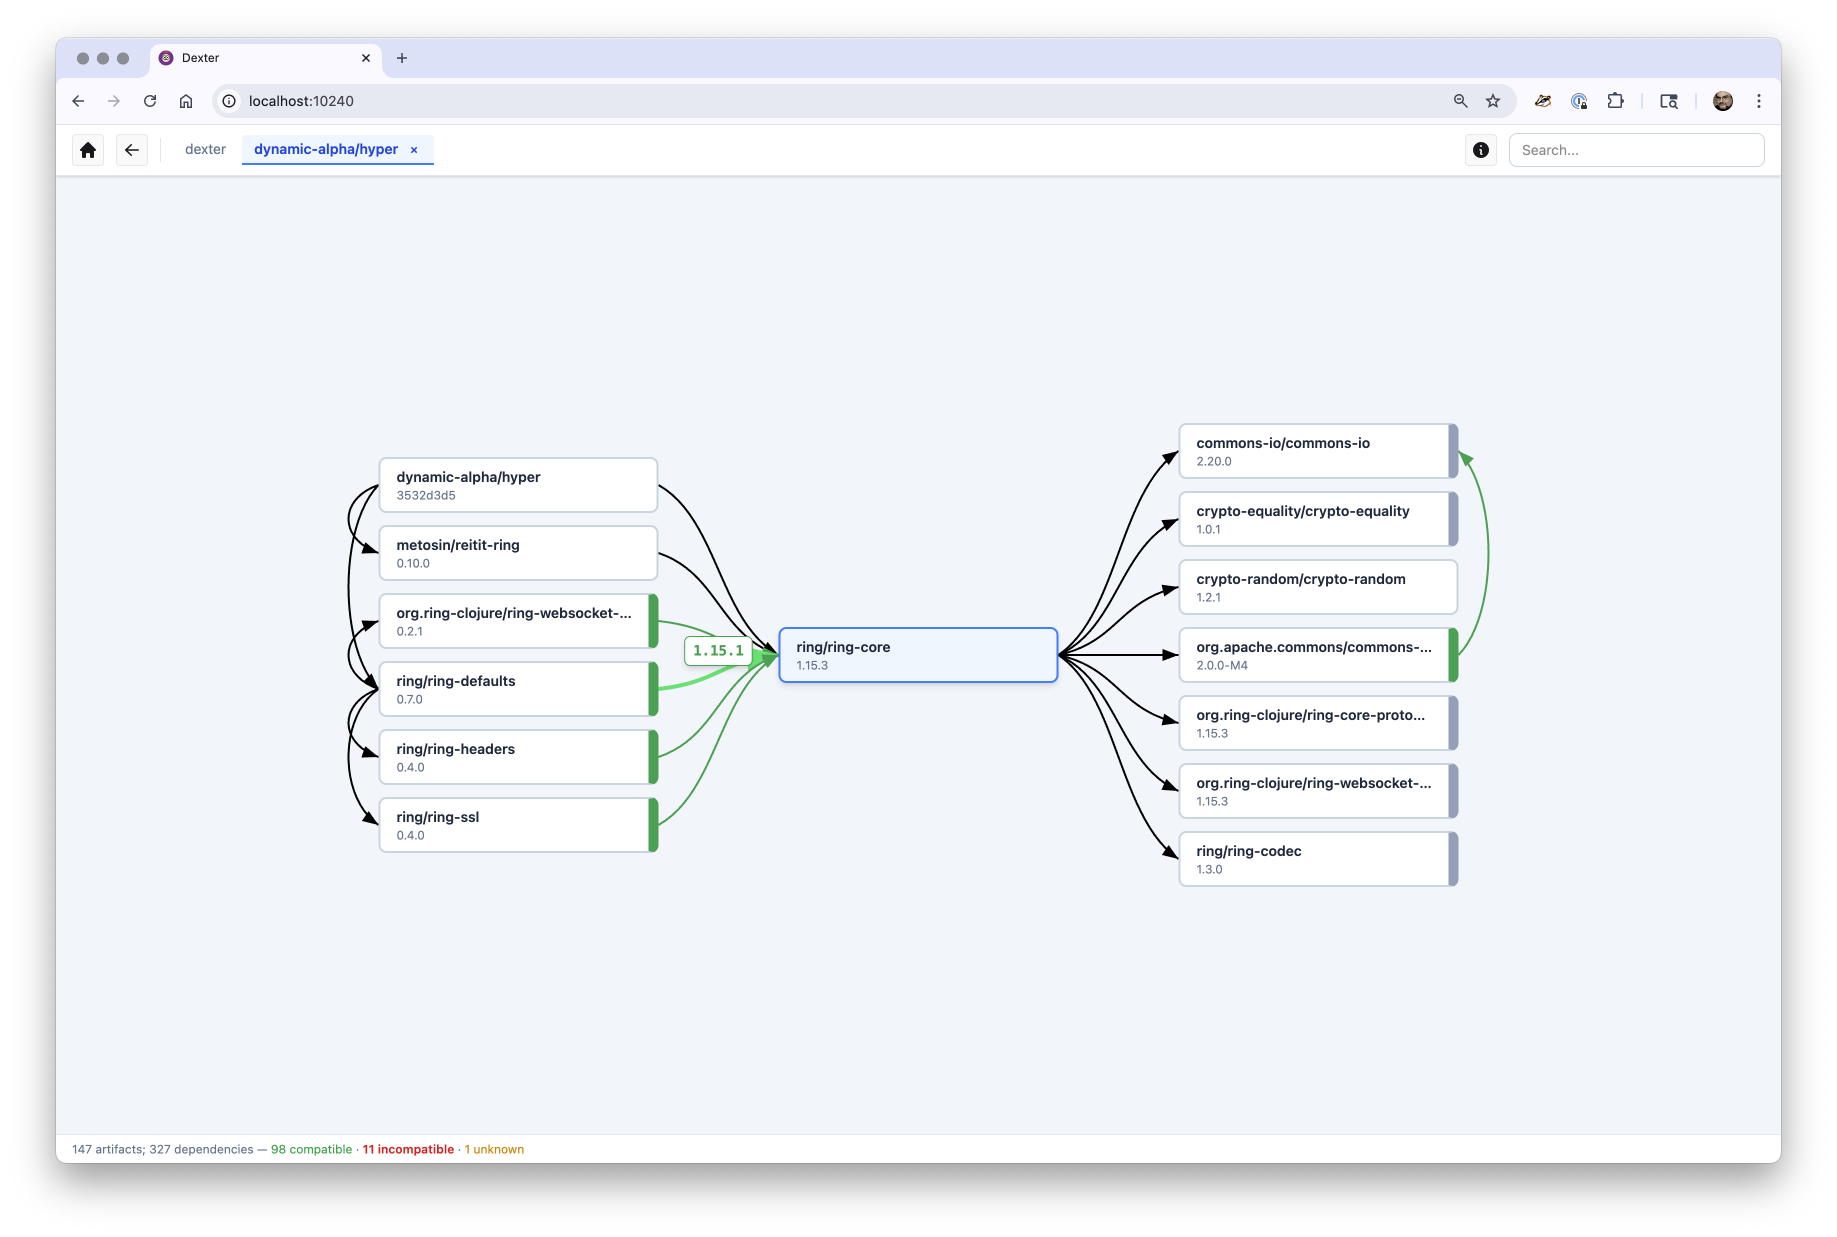
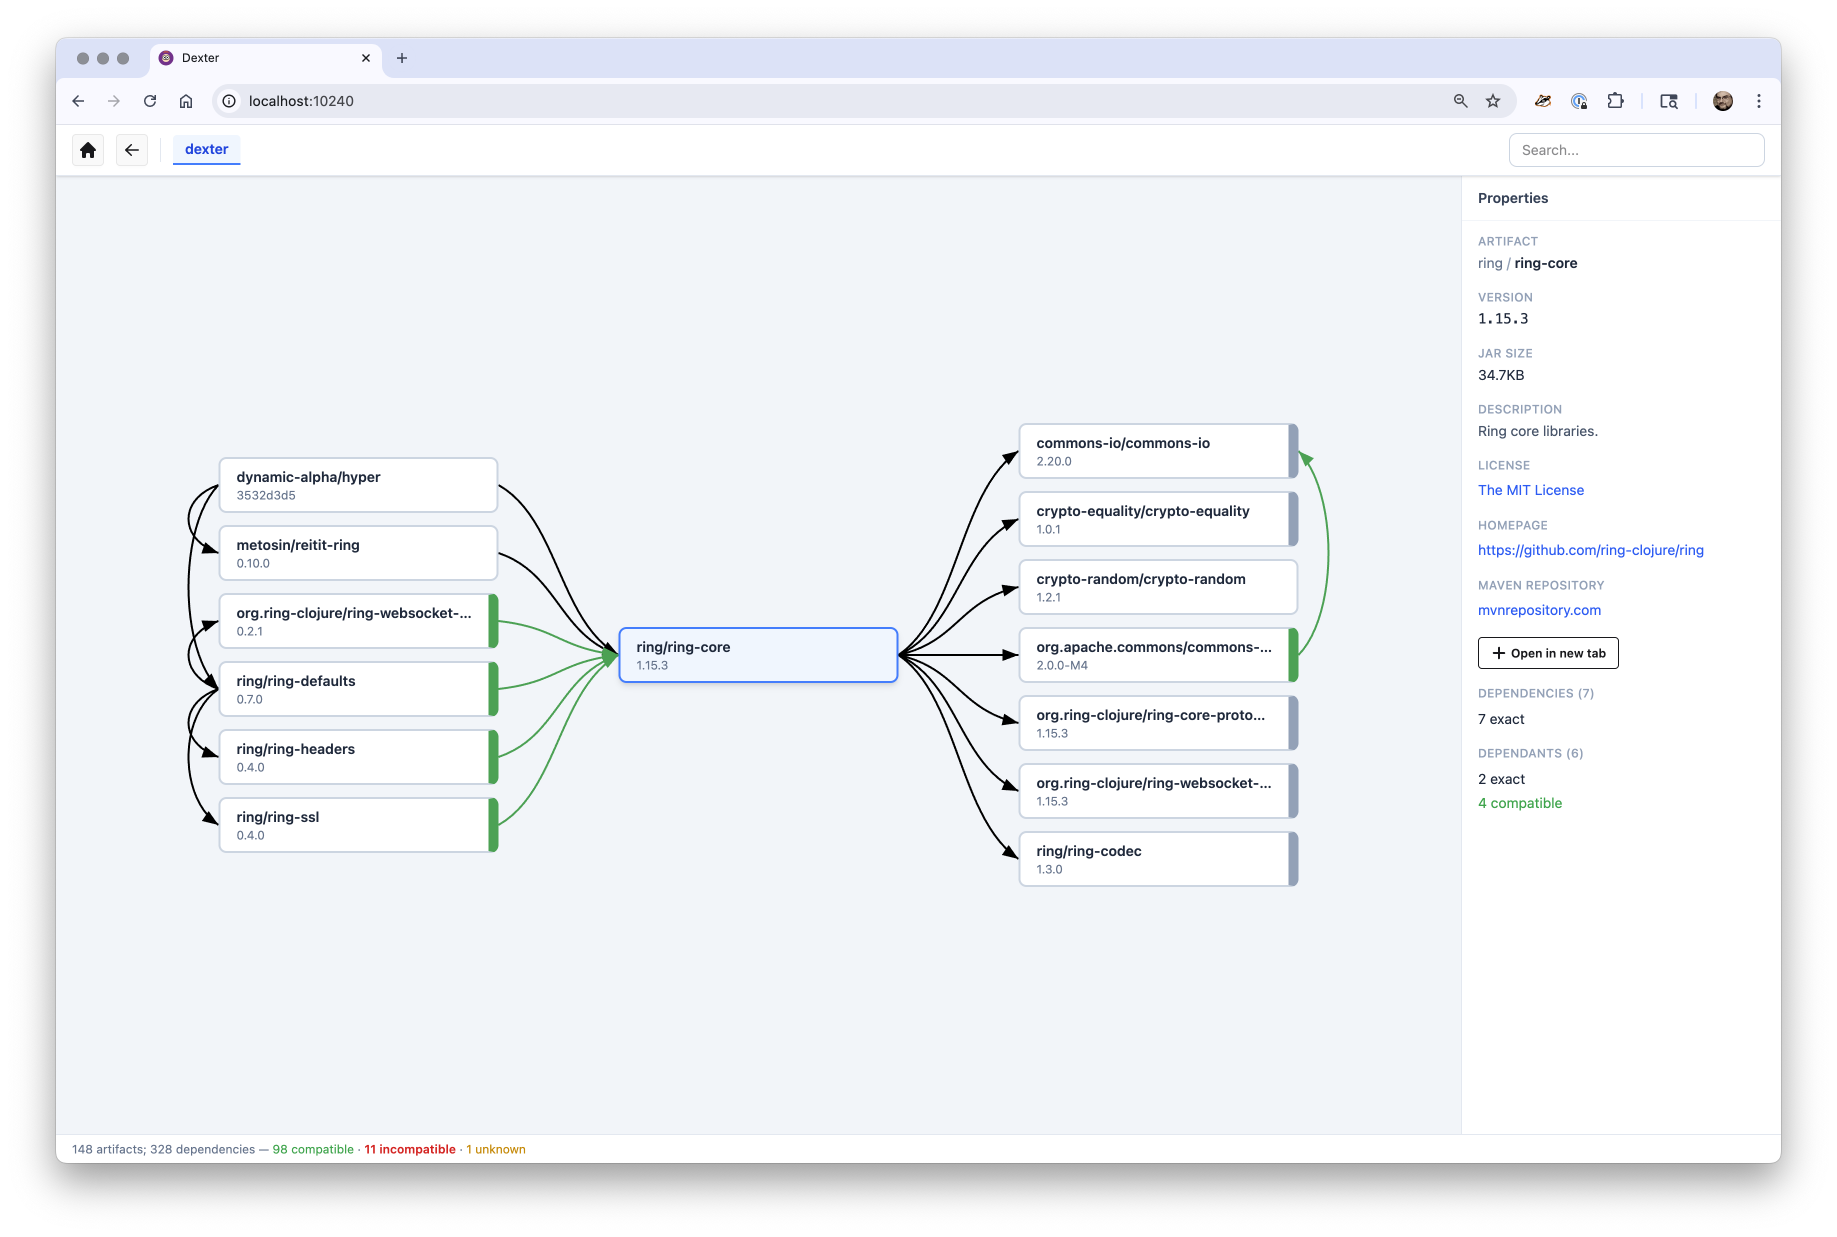
Update docs for new persistent properties panel

diff --git a/README.md b/README.md
@@ -42,7 +42,7 @@ scoop bucket add hlship https://github.com/hlship/scoop-bucket
 scoop install dexter
 ```
 
-### Linux, Windows (manual)
+### Linux
 
 Download Dexter from [GitHub Releases](https://github.com/hlship/dexter/releases)
 and unpack the distribution, which includes launcher scripts (`dexter` for
@@ -94,13 +94,9 @@ dexter -p 8080 -O
 
 Click any artifact to make it the new selection. The display animates to show its dependants and dependencies.
 
-### Property Panel 
- 
-Click the  icon (or type `⌘I`) to open a property panel for the selected dependency (in the center):
+### Properties Panel
 
-![Property Panel](docs/images/property-panel.png)
-
-The property panel floats above the main user interface.
+The properties panel is on the right side of the display, and shows more detailed information about the selected artifact in the center.
 
 The exact information displayed will vary dependending on what information is available in the Maven POM file for
 the dependency (if it even exists).
@@ -111,7 +107,6 @@ the dependency (if it even exists).
 
 Dexter supports multiple tabs, each providing an independent view into the dependency tree.
 
-<!-- TODO: add screenshot showing multiple tabs -->
 ![Tabs](docs/images/tabs.png)
 
 - The **ROOT tab** is always present and cannot be closed; it shows the full project dependency tree
@@ -124,12 +119,12 @@ Dexter supports multiple tabs, each providing an independent view into the depen
 
 Arrows represent dependency relationships. Their color indicates whether the version requested by the parent matches the version actually resolved:
 
-| Color | Meaning |
-|---|---|
-| **Black** | Exact match — requested version equals resolved version |
-| **Green** | Compatible — same major version (or same major.minor for 0.x) |
-| **Red** | Incompatible — different major version |
-| **Yellow** | Unknown — involves a git SHA, local path, or unparseable version |
+| Color       | Meaning                                                       |
+|-------------|---------------------------------------------------------------|
+| **Black**   | Exact match — requested version equals resolved version       |
+| **Green**   | Compatible — same major version (or same major.minor for 0.x) |
+| **Red**     | Incompatible — different major version                        |
+| **Yellow**  | Unparseable version, or a Git coordinate, or a local root     |
 
 Hover over any arrow to highlight it and see the requested version.
 
